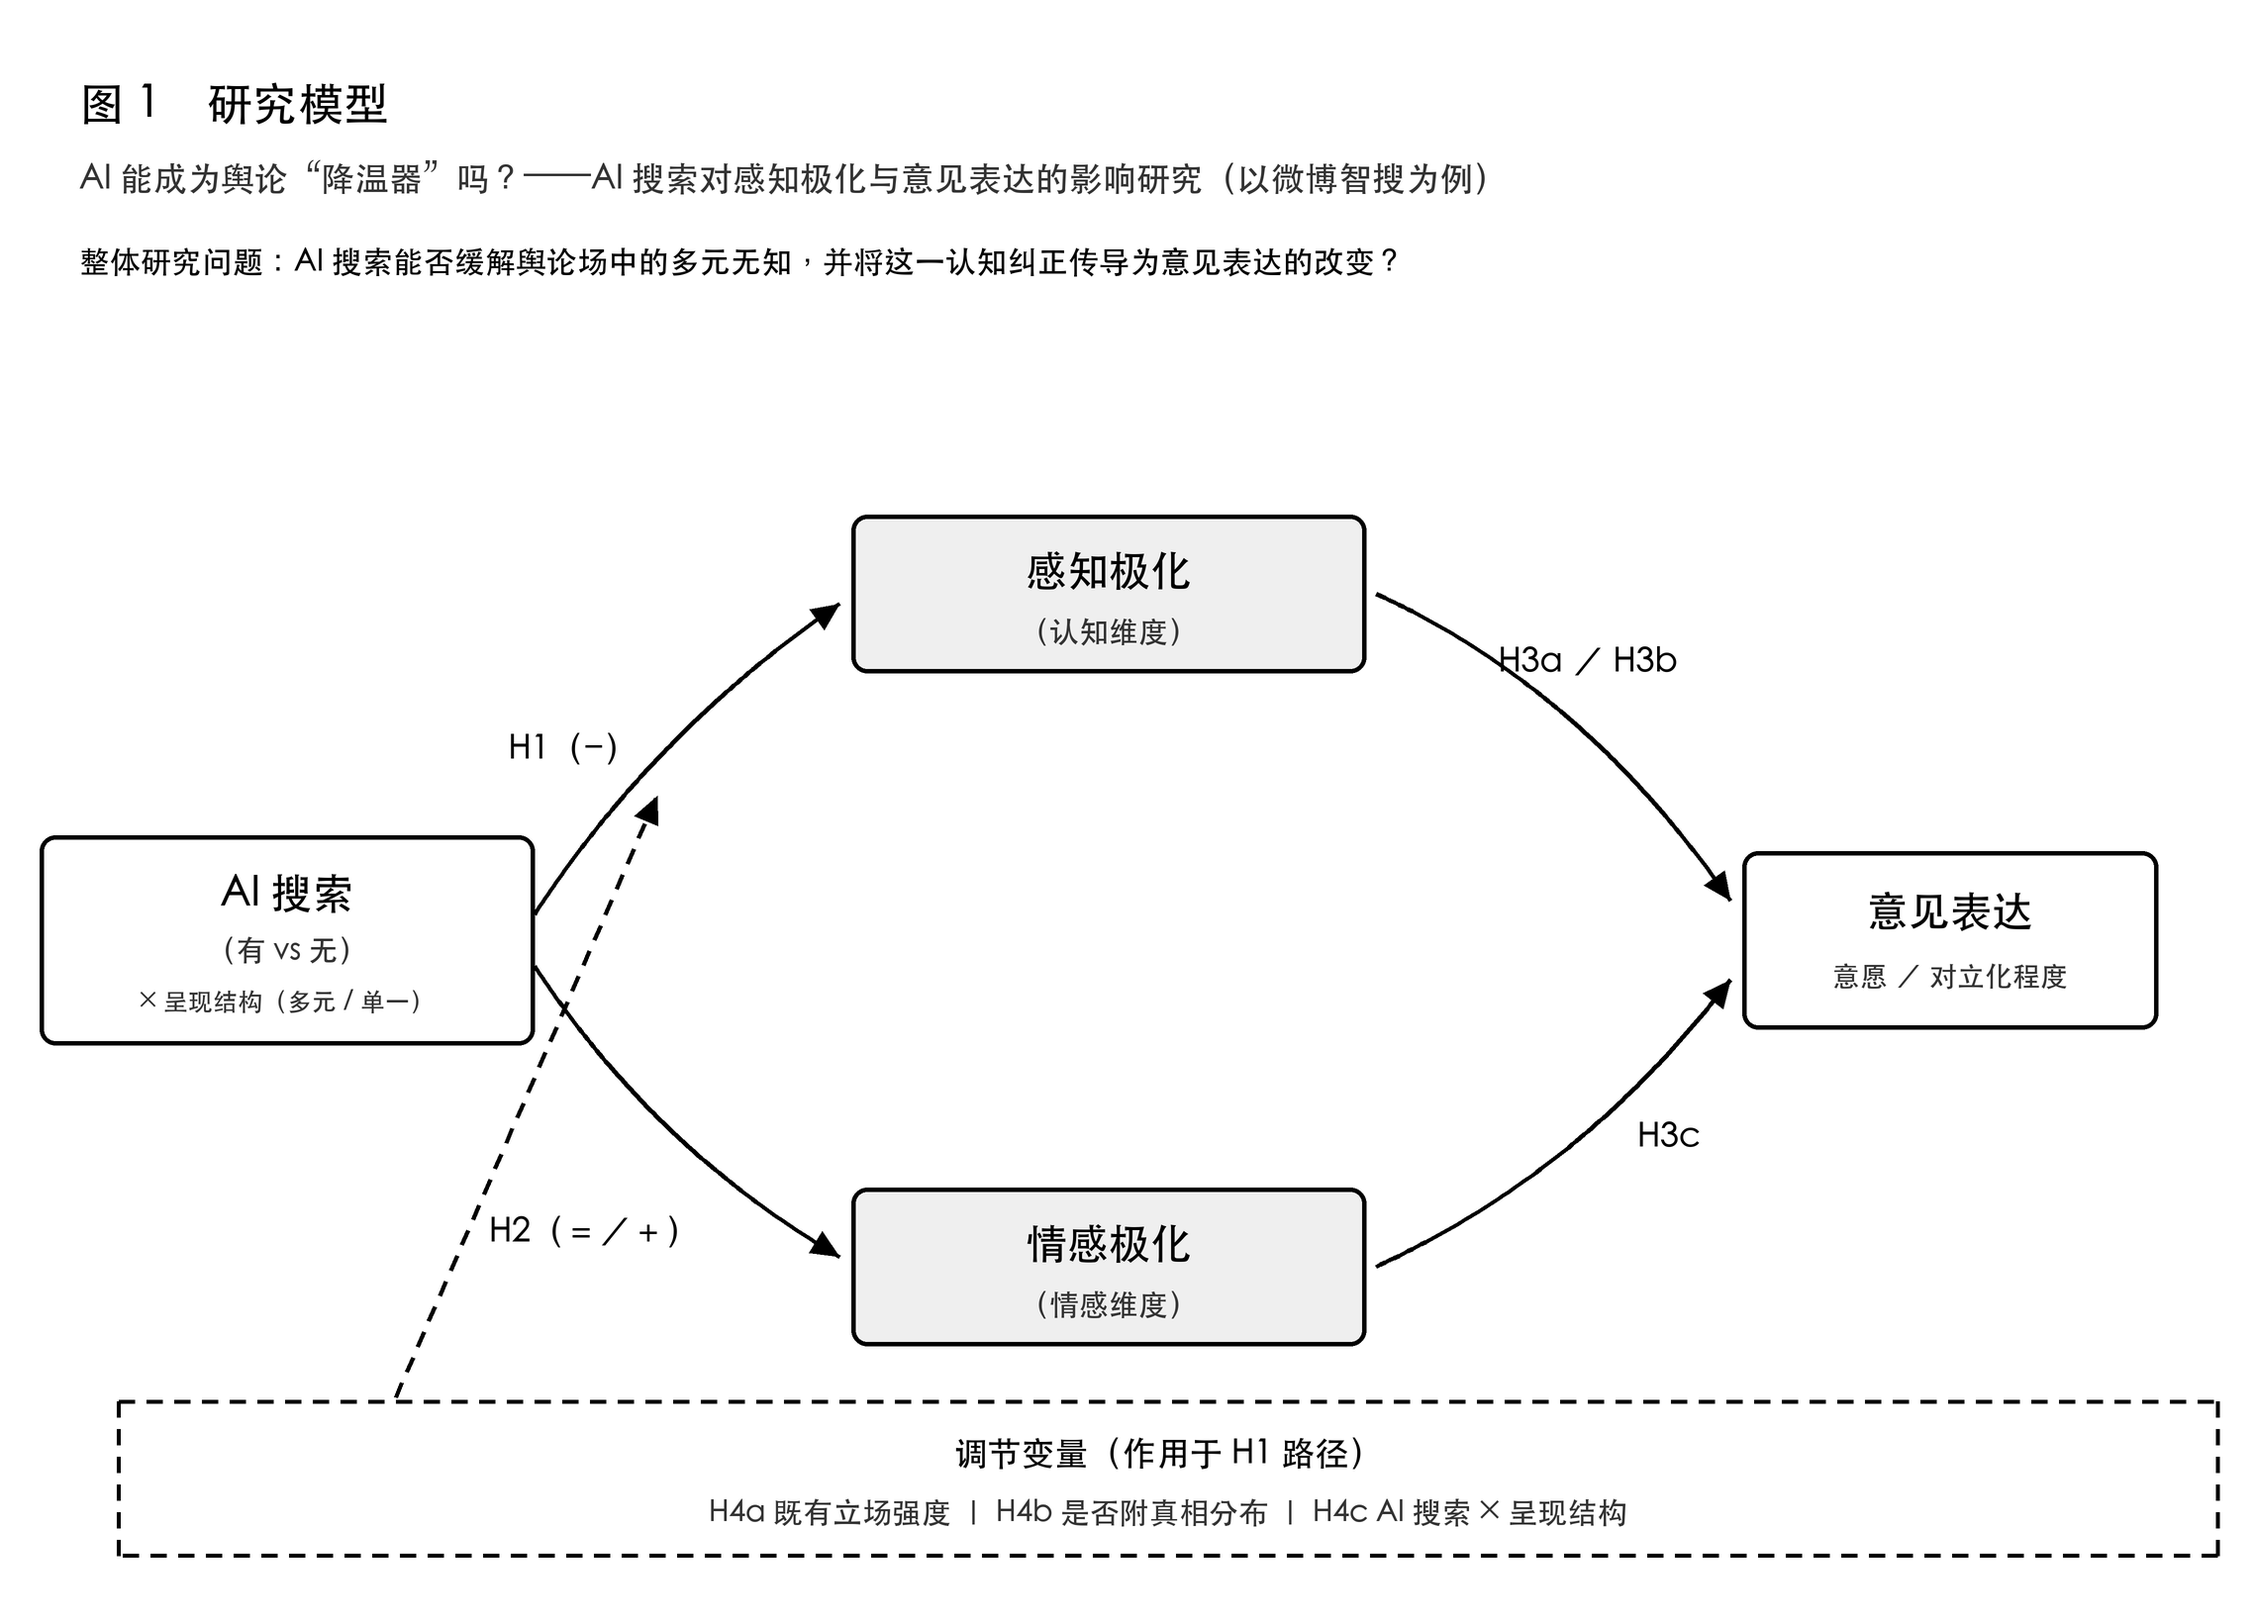
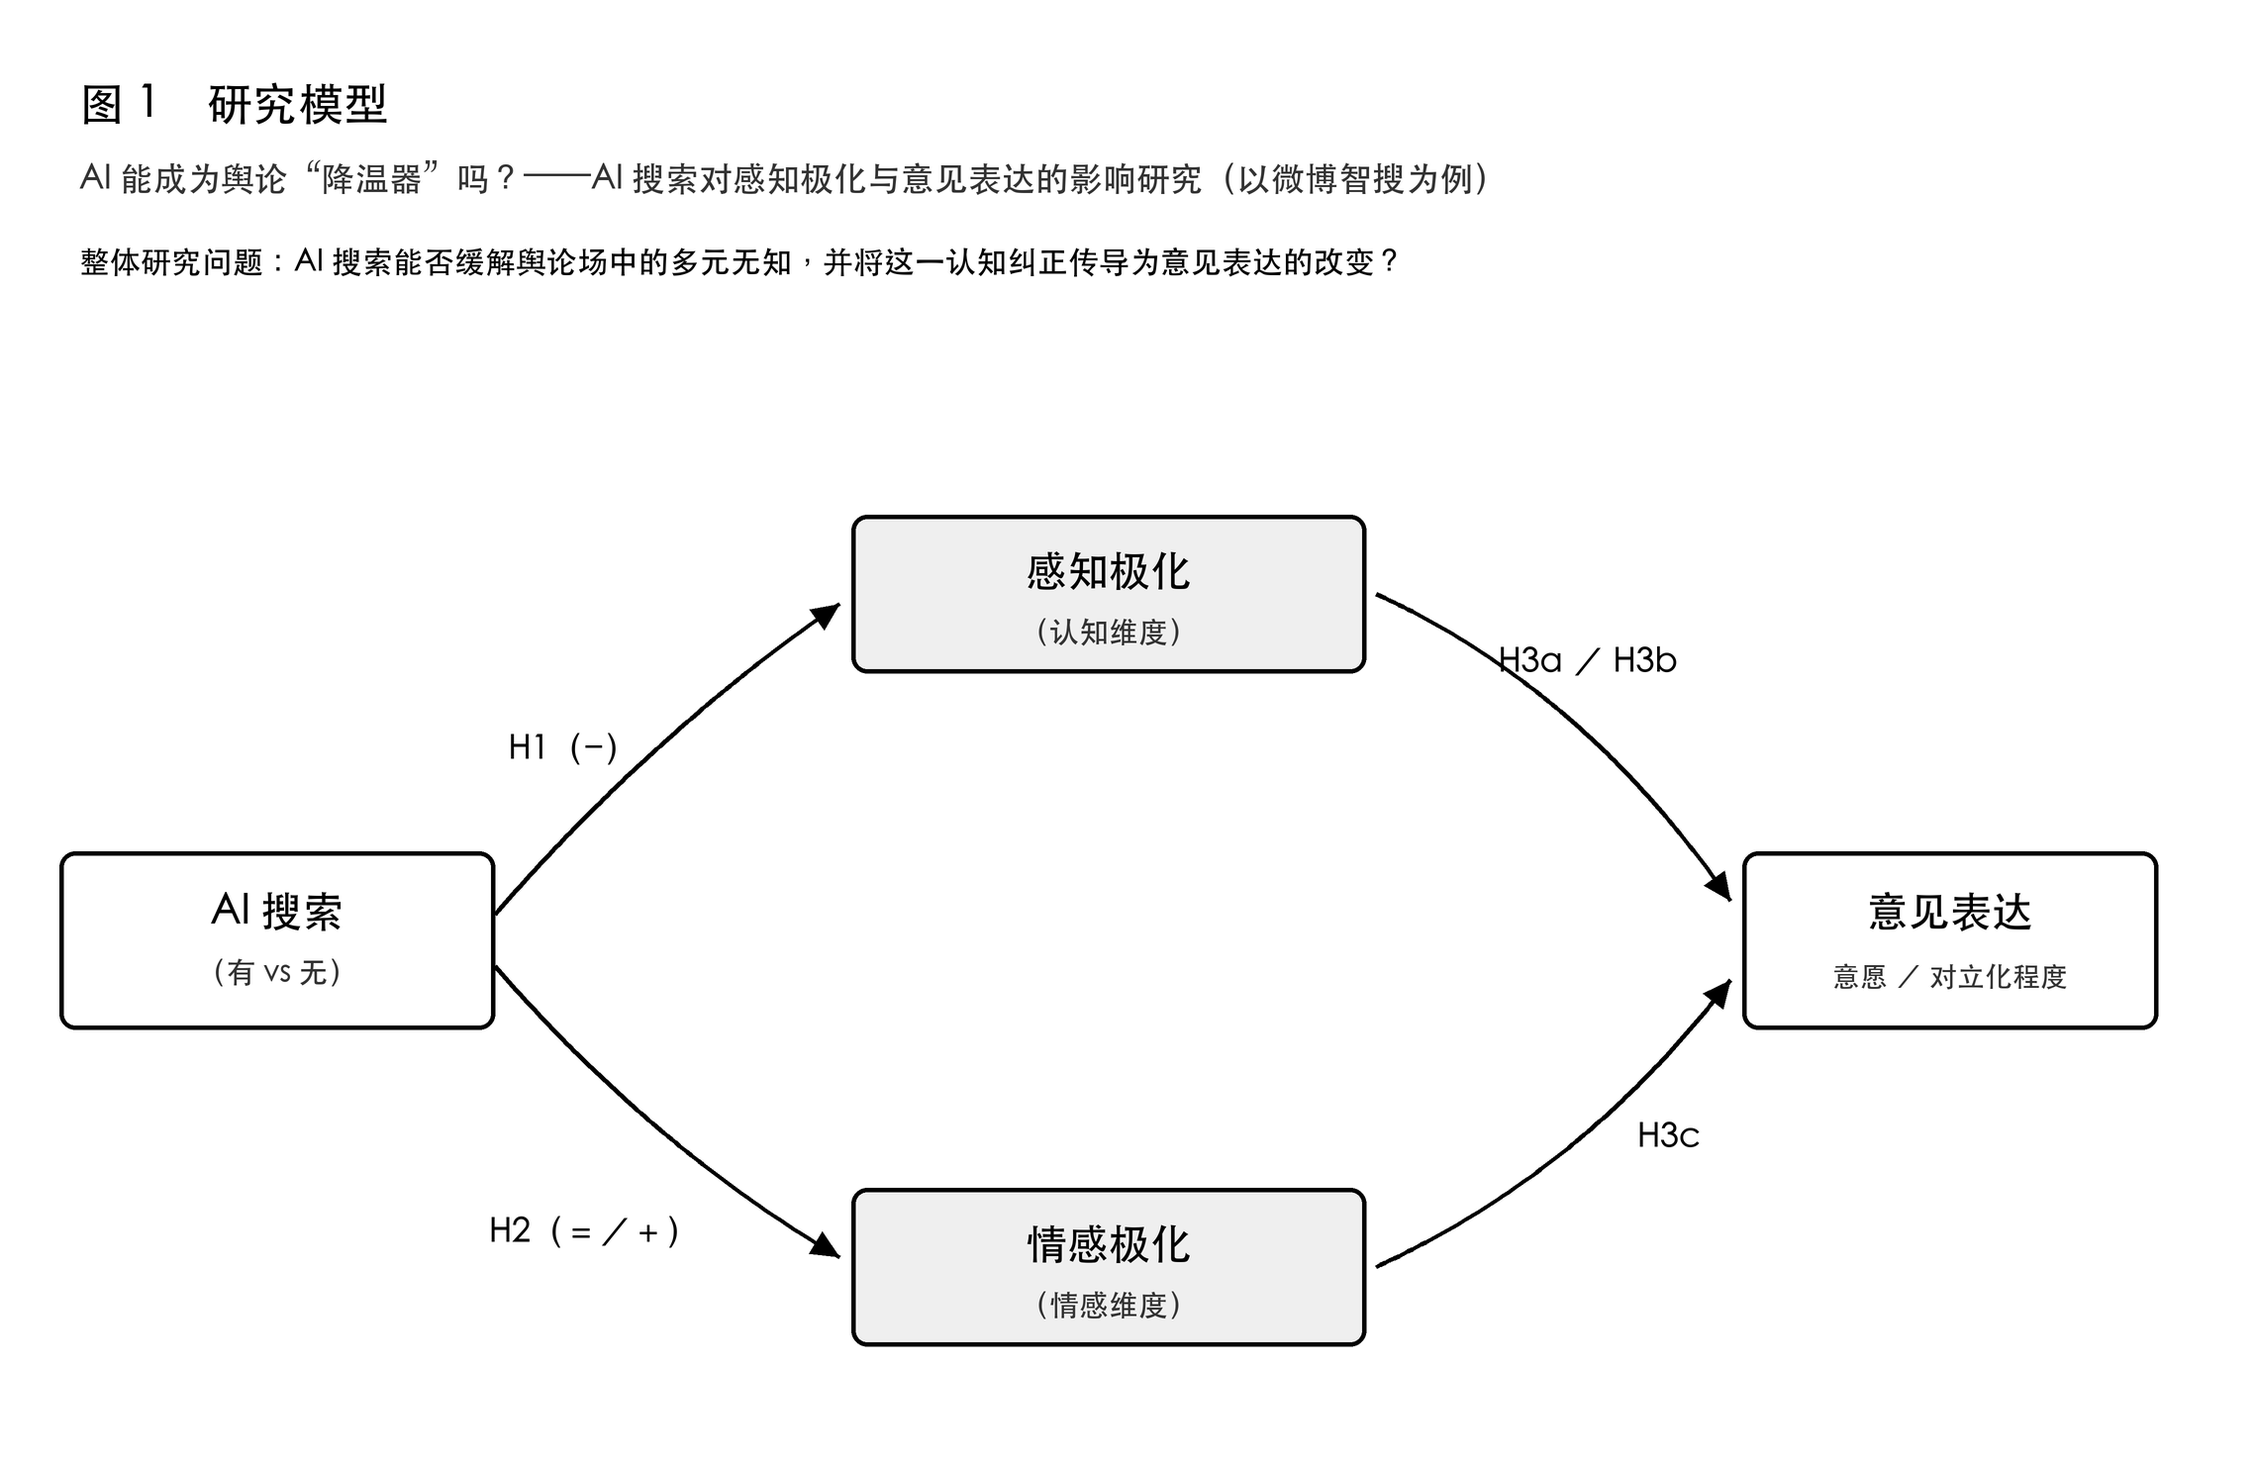
设计收敛为单因子两组，新建《研究设计》，并统一题目
- 设计简化：自变量只留 AI 搜索（有 vs 无）；删除呈现结构因子、全部调节变量（H4a–H4d）与 RQ4；假设收敛为 H1／H2／H3
- WTSC 不再作因变量（稳定特质，一次暴露改变不了）；因变量改为状态性测量 ＋ 评论框准行为任务
- 取消 T1／T2 两阶段，改为固定测量顺序（感知 → 情感 → 表达 → 操纵检查 → 人口学）
- 样本量 250 → 150（每组 75，招募约 175）
- 新建 `研究设计.md`（方法与设计完整版：补齐分析策略、效度局限、执行清单）；`选题.md` 第七节加指引，避免两处各改一半
- 题目统一：`选题.md` 与 `文献框架.md`、README 对齐
- 模型图改为单因子两组（去掉调节框）
- 代价记录：删除调节后无法检验强立场者的逆火，已列为效度威胁

diff --git a/研究设计.md b/研究设计.md
@@ -1,0 +1,165 @@
+# 研究设计
+
+- 记录日期：2026-09-23
+- 课程：传播学
+- 状态：设计已定型 —— **单因子两组被试间实验**
+- 关联文件：`选题.md`（选题演进与理论资源）、`理论框架与假设.md`（理论推导与假设）、`文献框架.md`（文献与术语）、`模型图.png`（模型图）
+
+> 本文件是**方法与设计的完整版**，可独立阅读。与 `选题.md` 第七节一致，并补齐了分析策略与效度局限。
+
+## 一、题目与研究问题
+
+**题目**
+
+> AI 能成为舆论"降温器"吗？——AI 搜索对感知极化与意见表达的影响研究（以微博智搜为例）
+
+提问式主标题须保持**开放提问**；因现有实证证据的主流结局为**无效应或逆火**，正文必须正面呈现"降温"与"升温"两条证据线，避免被读成预判结论。
+
+**主研究问题（统摄）**
+
+> AI 搜索能否缓解舆论场中的多元无知，并将这一认知纠正传导为意见表达的改变？
+
+此问含两次"能不能"：
+
+1. **第一次**：AI 搜索 → 纠正误判（认知层）
+2. **第二次**：纠正误判 → 改变表达（行为层，**理论缺口所在**）
+
+| 编号 | 研究问题 | 对应假设 |
+| --- | --- | --- |
+| **RQ1**（矫正｜核心） | AI 搜索是否降低感知极化？ | H1 |
+| **RQ2**（分化｜核心） | 它在降低感知极化的同时，是否抬高情感极化？ | H2 |
+| **RQ3**（外溢） | 感知极化的降低，是否进一步改变意见表达？ | H3a／H3b／H3c |
+
+> 原 RQ4（边界条件）已随调节变量一并撤销——本设计不设调节变量。
+
+## 二、理论框架与推导起点
+
+**主理论：多元无知**（pluralistic ignorance）。群体成员系统性地误判他人的态度与立场；经典表述为"没有人相信，但每个人都认为每个人都相信"。
+
+**关键判断**：感知极化是多元无知的一个**特例**（Asami & Kishishita 2025 把 false polarization 定为 "unilateral ignorance"）。
+
+**三个推导命题**
+
+| 命题 | 内容 | 出处 |
+| --- | --- | --- |
+| **P1　误判源于可见性** | 对意见气候的判断依赖可见线索；分布不可见时，判断朝同一方向系统性偏离 | Prentice & Miller 1993；Miller 2023 |
+| **P2　分布信息可校准判断** | 暴露于更完整的意见分布信息，可校正该判断 | Sparkman et al. 2022；Bursztyn et al. 2020 |
+| **P3　认知—行为缺口** | 判断的校正不必然传导为行为改变，此为既有研究的未决环节 | Miller 2023；Geiger et al. 2025；Vlasceanu et al. 2024 |
+
+## 三、模型与假设
+
+```
+AI 搜索（有 vs 无）
+   │
+   ├── H1 ──→ 感知极化（认知）── H3a ／ H3b ──┐
+   │                                           ├──→ 意见表达
+   └── H2 ──→ 情感极化（情感）───── H3c ──────┘    意愿 ／ 对立化程度
+
+H3c：感知极化与情感极化并行中介"AI 搜索 → 意见表达"
+```
+
+（配图见同目录 `模型图.png`）
+
+| 编号 | 假设 | 方向 | 推导自 |
+| --- | --- | --- | --- |
+| **H1** | AI 搜索（vs 无 AI 搜索）显著降低感知极化 | − | P1＋P2 |
+| **H2** | AI 搜索不降低、甚至抬高情感极化；二者变化方向分离 | ＝／＋ | P2 的适用边界 |
+| **H3a** | 感知极化降低意见表达意愿 | − | P3 |
+| **H3b** | 感知极化提高表达的对立化程度 | ＋ | P3 |
+| **H3c** | 双中介并行；情感中介**削弱（但不必然反转）**认知中介的负向间接效应 | 结构 | P3 |
+
+## 四、核心概念的界定与操作化
+
+| 概念 | 界定 | 操作化 |
+| --- | --- | --- |
+| **AI 搜索**（自变量） | 智搜在争议议题下对多种立场观点的聚合与并列呈现 | 两组：AI 搜索条件 vs 平台原始评论流（对照） |
+| **感知极化** | 用户对"对立阵营实际立场"的主观估计中，超出真实分布的那部分 | ① **立场位置**：自我立场放置 ＋ 对典型支持方／反对方的位置估计（7 点）；感知极化 = 感知差距 − 实际差距<br>② **比例估计**：对支持／反对方各占多少比例的估计（0–100），与真实分布相比（对接 Sparkman et al. 2022 的经典操作） |
+| **情感极化** | 用户对持对立立场群体的反感程度 | 感受温度计（0–100）＋ 对"家人持对立立场"的不适感 |
+| **意见表达意愿** | 用户在争议议题上公开表达自身立场的意愿，及其表达的对立化程度 | **状态性测量**（"这个话题下，你现在有多愿意公开说出看法？"1–7，共若干题）＋ 准行为任务（评论框写作并编码：写不写、字数、对立化程度） |
+
+**两点必须写进正文的说明：**
+
+1. **本土化**：false polarization 的经典测量建立在党派之上，中国语境无对应物，须改用**议题立场群体**（"支持方／反对方"）替代。这既是方法挑战，也是本研究的本土化贡献点。
+2. **构念不对称**：感知极化测的是「**感知偏差**」（估计 vs 实际），情感极化测的是「**自身态度**」（自己有多反感）。一个在感知层、一个在态度层，不点明会被追问"为何拿感知与态度比"——而这正是"分化效应"的立意所在。
+3. **不使用 WTSC**：Hayes et al. (2005) 的自我审查量表是**稳定特质**（4 周重测 r=.67），一次暴露改变不了它，不适合做因变量。
+
+## 五、刺激材料：第一步（小规模内容分析）
+
+**定位：干预定型（intervention formative）** —— 不企图做成发表级内容分析，目标只是**为实验确定刺激材料**。定位准确，体量才合理。
+
+| 项目 | 内容 |
+| --- | --- |
+| **抽样** | 3–4 个争议议题，在智搜下观察输出并截图存档；挑选标准是"智搜会触发多元整合的高争议议题" |
+| **编码框架** | 立场配比（单边／双边／多边）｜呈现结构（并列／分层／叙事融合）｜议题框架（冲突／责任／人情／道德）｜语气强度｜是否附真相分布｜署名标注 |
+| **产出** | 一份可复用的刺激材料库 ＋ 各维度取值依据 |
+
+> 编码框架中的"是否附真相分布""署名标注"等维度**仅作观察记录**，已不作为实验因子。
+
+## 六、实验设计：第二步
+
+**设计：单因子被试间 —— AI 搜索（有 vs 无）**
+
+理由：主研究问题问的是"AI 搜索能否缓解多元无知"，核心比较只需两组。
+
+| 条件 | 刺激材料 |
+| --- | --- |
+| **AI 搜索** | 微博智搜对同一议题的多元观点聚合呈现（截图） |
+| **无 AI 搜索（对照）** | 同一议题的平台原始评论流（截图），同等信息量 |
+
+**测量顺序（固定，不随机化）**
+
+| 步骤 | 内容 |
+| --- | --- |
+| 随机分配 | 简单随机分配至两组 |
+| **暴露** | 阅读刺激材料；记录停留时间 |
+| 第 1 组测量 | **感知极化**（立场估计 ＋ 比例估计） |
+| 第 2 组测量 | **情感极化**（感受温度计 ＋ 不适感） |
+| 第 3 组测量 | **意见表达意愿**（状态性量表）＋ 评论框任务 |
+| 操纵检查 | 是否感知到材料来自 AI 搜索；是否感知到多元整合 |
+| 最后 | 人口学与社交媒体使用 |
+
+> 固定顺序的理由：**感知判断在先**，避免表达任务启动被试对"别人有多极端"的注意；人口学放最后，避免启动身份。
+
+## 七、样本与检验力
+
+| 项目 | 数值 |
+| --- | --- |
+| 目标**有效**样本 | **150**（每组 75） |
+| 可检出效应 | **d ≈ 0.46**（α=.05，power=.80，双尾） |
+| 预留流失 15% 后招募 | **约 175** |
+| 上探空间 | 若招募顺利可至 200，以应对三个因变量的多重检验 |
+
+> 若做多重检验校正（α=.05/3≈.017），有效样本需增至约 190。替代做法是在预注册中**指定一个主要结局**（建议为"表达的对立化程度"），其余为次要结局，从而免于校正。
+
+## 八、分析策略
+
+| 假设 | 分析方法 |
+| --- | --- |
+| H1、H2 | 独立样本 t 检验（两组比较），报告 Cohen's d |
+| H3a／H3b | 回归系数（感知极化 → 表达意愿／对立化程度） |
+| H3c | **PROCESS Model 4**（并行中介），Bootstrap 5000 次，报告间接效应与 95% CI |
+| 稳健性 | 纳入人口学、社交媒体使用频率作协变量 |
+| 缺失值 | 完整案例为主，多重插补作敏感性分析 |
+| 报告规范 | 报告效应量与置信区间；不做 p 值单点判断 |
+
+**建议预注册**（OSF）：给定本领域主流证据为 null 或 backfire，预注册能让零结果成为**有信息量的结论**，而非"没做出来"。需预注册的内容：假设、主要结局、排除标准、检验力分析。
+
+## 九、效度威胁与局限（必须预写）
+
+1. **单次暴露 vs Bail 式长期暴露** —— 本研究只能检验**短期效应**
+2. **实验环境移除了选择性暴露** —— 现实中用户可回避对立信息，实验里不能
+3. **刺激非真实平台界面** —— 截图与真实使用体验有差距
+4. **单一议题** —— 外部效度受限（呈现结构等材料特征已不设为因子）
+5. **不设调节变量** —— 无法排除强立场者的**逆火**（Bail et al. 2018），须在结论中明写
+6. **主流证据是 null 或 backfire** —— 必须预先写好零结果／反向结果的解释预案
+7. **学生／便利样本** —— 与微博真实用户群体存在差异
+
+## 十、执行清单
+
+- [ ] 确认 3–4 个候选争议议题，实机观察智搜输出并截图
+- [ ] 按编码框架完成第一步编码，定出两组刺激材料（同等信息量）
+- [ ] 完成感知极化与情感极化的**本土化**测量（不用党派框架）
+- [ ] 招募被试（目标有效 150，招募约 175）
+- [ ] 写清零结果／反向结果的解释预案
+- [ ] （建议）预注册：假设、主要结局、排除标准、检验力分析
+- [ ] 编码评论框任务的对立化程度指标，并报告编码信度

diff --git a/README.md b/README.md
@@ -2,9 +2,20 @@
 
 传播学课程作业仓库。
 
+## 题目
+
+**AI 能成为舆论"降温器"吗？——AI 搜索对感知极化与意见表达的影响研究（以微博智搜为例）**
+
 ## 内容
 
-待补充。
+| 文件 | 说明 |
+| --- | --- |
+| `研究设计.md` | **方法与设计的完整版**：研究问题、模型与假设、变量操作化、刺激材料、实验设计、样本与检验力、分析策略、效度局限 |
+| `理论框架与假设.md` | 主理论（多元无知）、适配性校准、研究模型、假设 H1／H2／H3 |
+| `选题.md` | 选题演进与理论资源：一句话概述、因果结构、理论资源、v1→v2 修订说明 |
+| `文献框架.md` | 五章文献综述框架、逐章文献落点、术语对照表 |
+| `模型图.png` | 研究模型图（黑白） |
+| `ai-dialog-export-*.json` | AI 对话记录导出（由 `ai-dialog-export` 技能生成） |
 
 ## 作者
 

diff --git a/文献框架.md b/文献框架.md
@@ -13,7 +13,7 @@
 >
 > 术语说明：第三章因变量采用既有术语**意见表达（opinion expression）**，"极化"仅作语境限定，全篇统一写作"极化议题语境下的意见表达"。
 >
-> ⚠ 与 `选题.md` 的关系：`选题.md` v2 曾将题目改为"矫正认知，还是点燃情绪？"。**已定**：以本框架的提问式题目为准，不再比对。`选题.md` 中的因变量术语已同步为"意见表达意愿"。
+> 题目一致性：`选题.md` 已同步为本题目，其因变量术语亦统一为"意见表达意愿"。
 
 ## 二、结构逻辑
 
